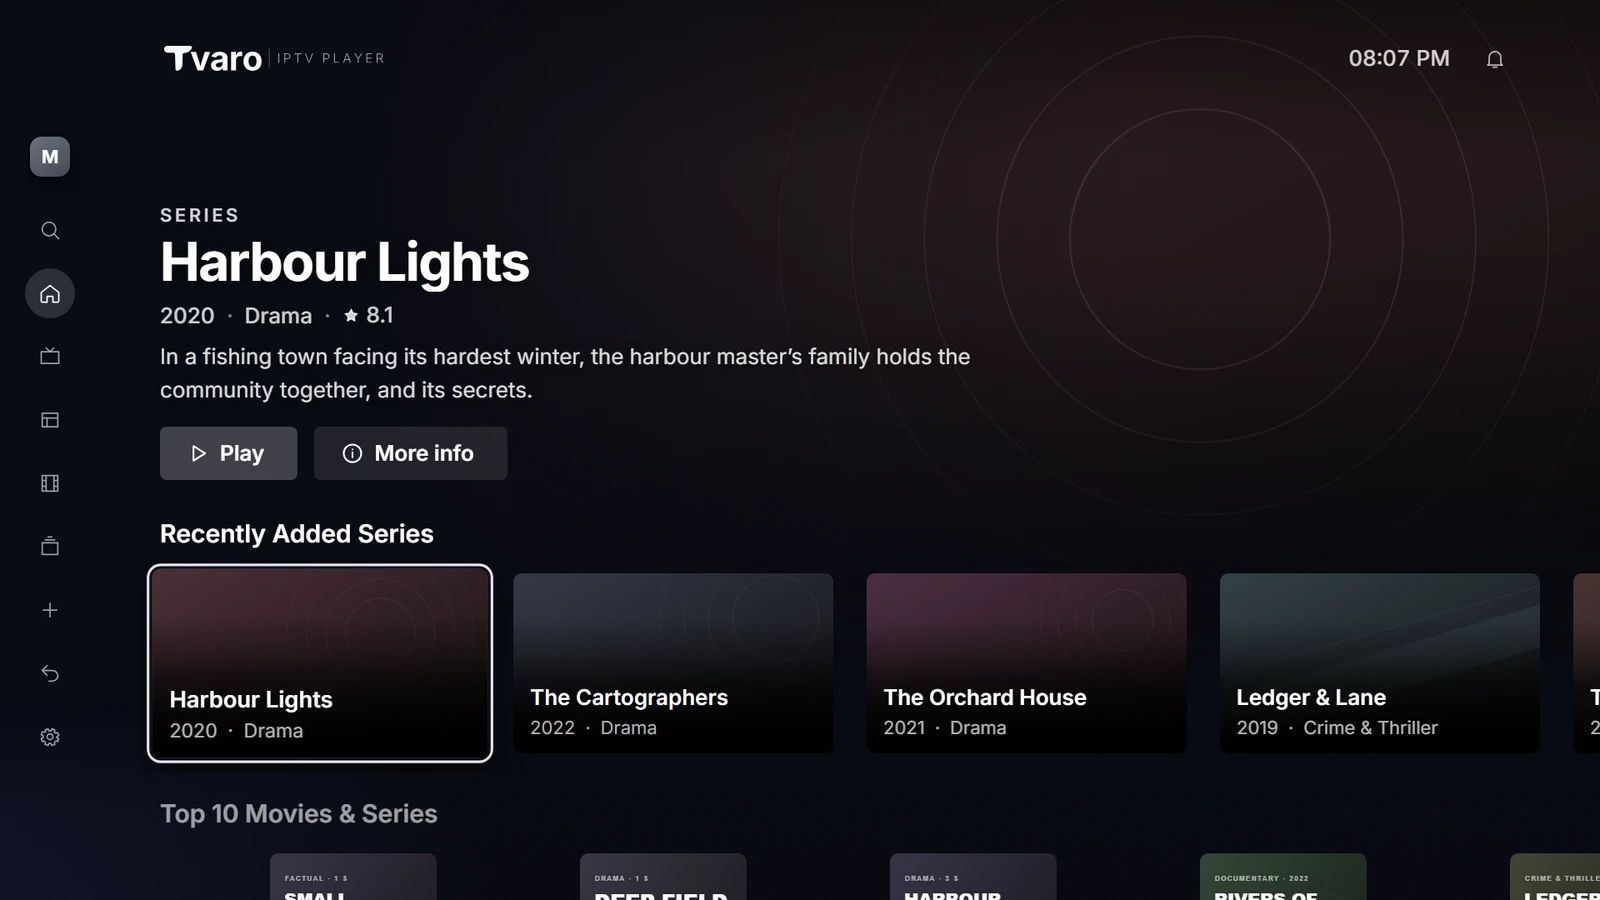
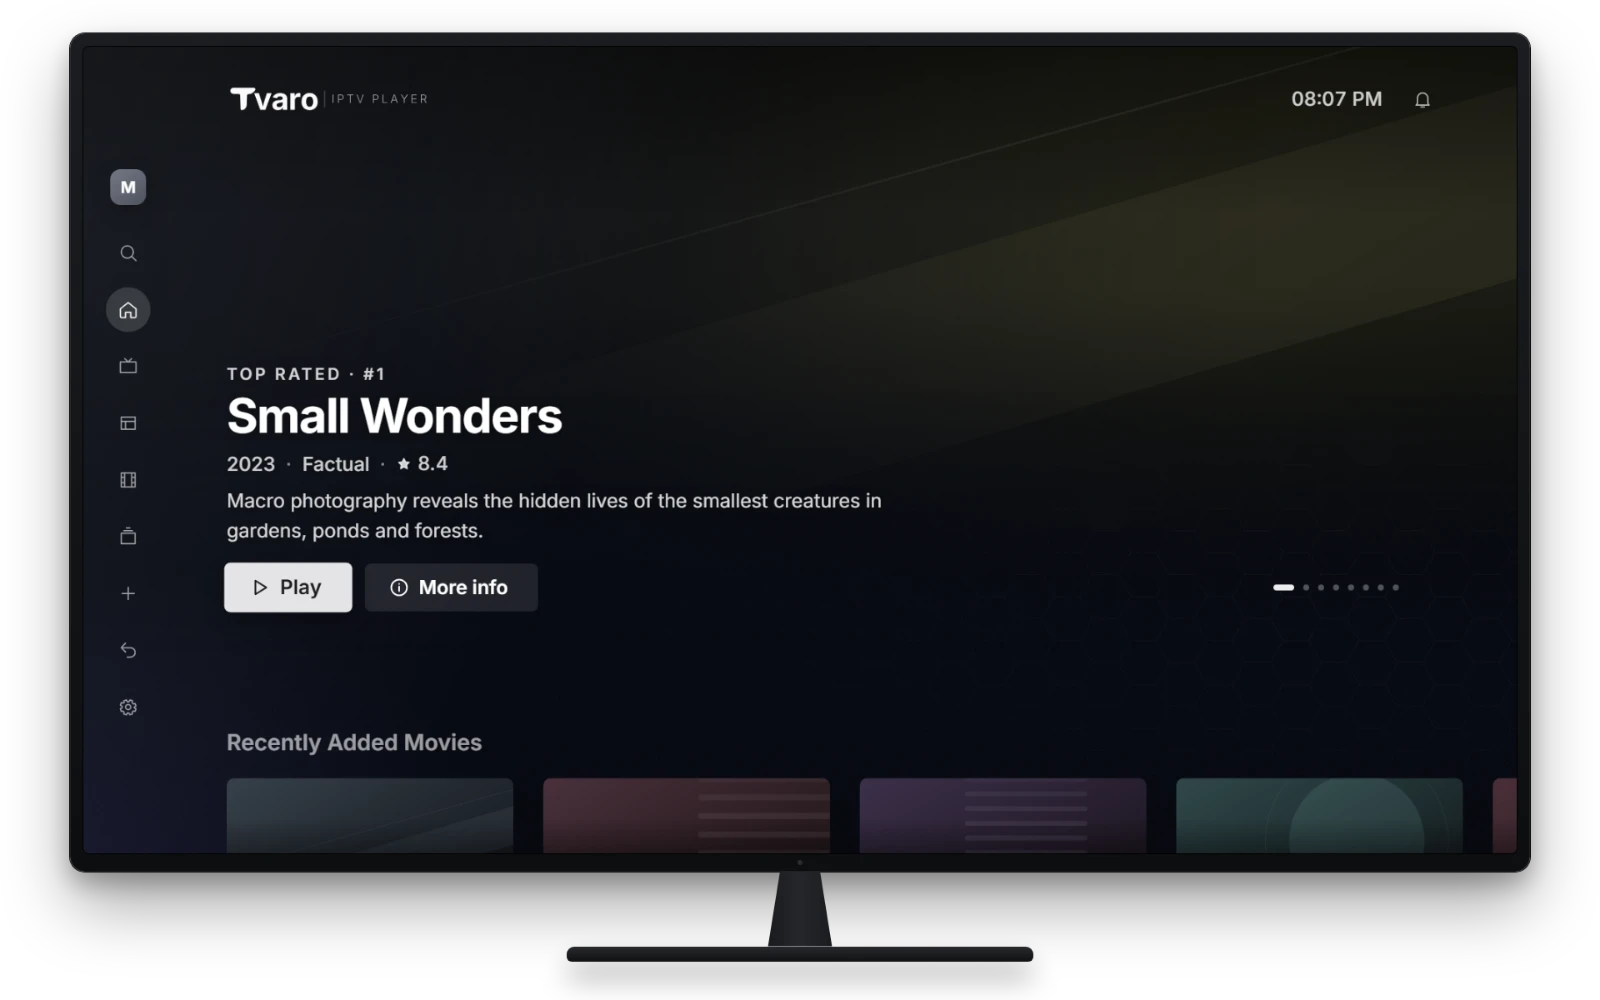
docs: show the main screenshot on a TV

diff --git a/README.md b/README.md
@@ -29,7 +29,7 @@
 </p>
 
 <p align="center">
-  <img alt="Tvaro IPTV Player home screen with a featured series and a row of recently added series" src="assets/hero.webp" width="100%">
+  <img alt="Tvaro IPTV Player home screen on a smart TV" src="assets/hero.webp" width="100%">
 </p>
 
 Tvaro IPTV Player brings your live TV, TV guide, movies and series together in one calm, consistent app. It is designed for the big screen and a TV remote first, and works just as well with a keyboard and mouse on your desktop. Add your own Xtream Codes account or M3U playlist, or explore the built-in demo first.
